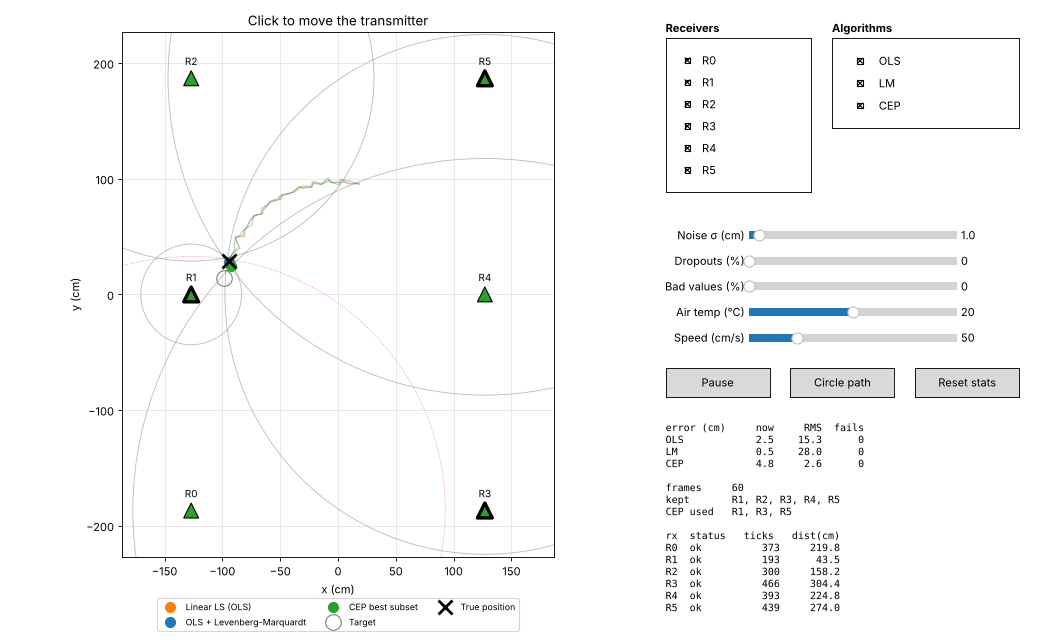
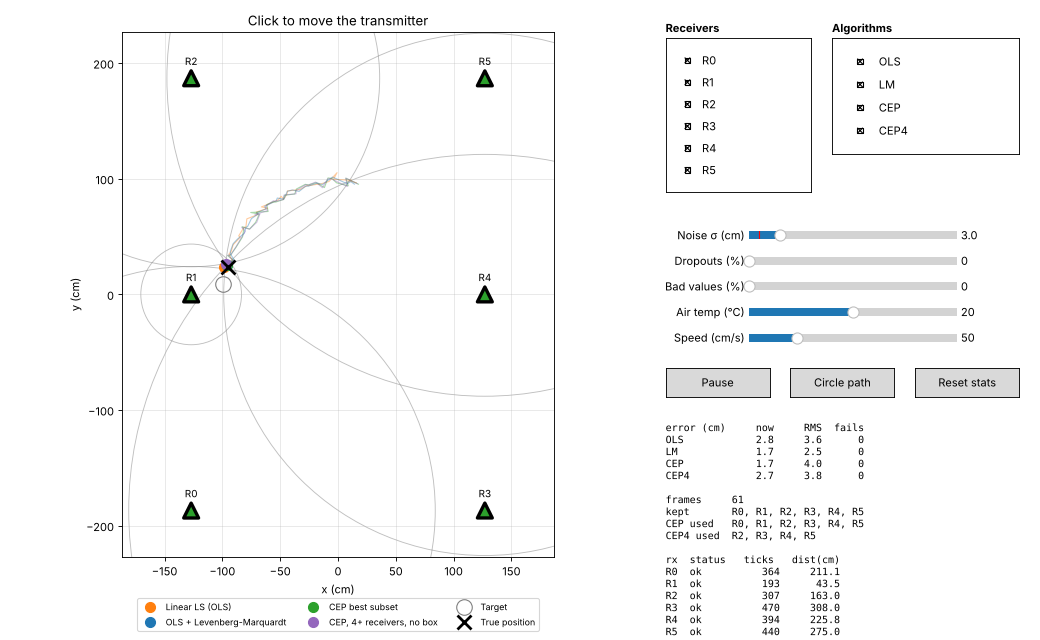
Add CEP4: 4+ receiver subsets, no bounding-box rejection, standard CEP score
A simulator-only CEP variant shown next to the library's for comparison.
Subsets are still solved with the library's OLS + LM. The library code
is unchanged.

Claude-Session: https://claude.ai/code/session_016VGCEF7XuqfShYWX5pyBoB

diff --git a/solvers.py b/solvers.py
@@ -17,7 +17,20 @@ Algorithms shown:
                subsets that exist, so every subset of 3 or more kept
                receivers is tried and the lowest-CEP one wins.
 
-All three see the same receivers: the ones that pass the library's bounds and
+  * ``CEP4`` — simulator-only variant of CEP for comparison.  It differs
+               from the library's CEP in three ways:
+                 - only subsets of 4 or more receivers are tried, so one bad
+                   reading can't hide inside an exact 3-receiver fit;
+                 - fixes outside the receivers' bounding box are kept;
+                 - CEP is the textbook one: covariance = s² (JᵀJ)⁻¹ with
+                   s² = sum of squared residuals / (m − 2).  The library
+                   instead weights each receiver by 1 / (|residual| + 0.1),
+                   which rewards a fit where some residuals are near zero
+                   and lets a bad reading win.
+               Each subset is solved with the library's own OLS + LM.  With
+               fewer than 4 kept receivers it holds its last fix.
+
+All four see the same receivers: the ones that pass the library's bounds and
 jump (differential) filter, run once per frame by ``get_position_full`` —
 exactly as UltraGPS-Control's ``windows/position_window.py`` calls it.
 """
@@ -25,6 +38,7 @@ exactly as UltraGPS-Control's ``windows/position_window.py`` calls it.
 from __future__ import annotations
 
 import os
+from itertools import combinations
 from math import comb
 
 import numpy as np
@@ -34,7 +48,7 @@ from ultragps_position import UltraGPSPositionLib, load_config
 _REPO = os.path.dirname(os.path.abspath(__file__))
 
 DEFAULT_CONFIG = os.path.join(_REPO, "config", "config.toml")
-ALGORITHMS     = ("OLS", "LM", "CEP")
+ALGORITHMS     = ("OLS", "LM", "CEP", "CEP4")
 
 
 def load_calibration(config_path: str) -> tuple[np.ndarray, np.ndarray, np.ndarray]:
@@ -52,9 +66,37 @@ class Solvers:
         # Subsets of size 3..n of n receivers, plus one: every subset is tried
         n = self.lib.receiver_count
         self.max_subsets = 2 ** n - sum(comb(n, k) for k in range(3)) + 1
+        self.cep4_last = None
 
     def reset(self) -> None:
         self.lib.reset_state()
+        self.cep4_last = None
+
+    def _standard_cep(self, distances, subset) -> tuple:
+        d      = np.array(distances, dtype=float)
+        idx    = np.array(subset)
+        pos, r = self.lib._nlls(d, self.lib._ols(d, idx), idx)
+        J      = r.jac
+        s2     = float(np.sum(r.fun ** 2)) / (len(subset) - 2)
+        try:
+            cov = s2 * np.linalg.inv(J.T @ J)
+        except np.linalg.LinAlgError:
+            return pos, float("inf")
+        return pos, 0.59 * (np.sqrt(abs(cov[0, 0])) + np.sqrt(abs(cov[1, 1])))
+
+    def cep4(self, distances, sane) -> tuple:
+        """Lowest-CEP subset of 4+ kept receivers, no bounding-box check.
+        Returns ``(position, subset)``; subset is ``[]`` when holding."""
+        best_pos, best_cep, best_idx = None, float("inf"), []
+        for k in range(4, len(sane) + 1):
+            for subset in combinations(sane, k):
+                pos, cep = self._standard_cep(distances, list(subset))
+                if cep < best_cep:
+                    best_pos, best_cep, best_idx = pos, cep, list(subset)
+        if best_pos is None:
+            return self.cep4_last, []
+        self.cep4_last = np.asarray(best_pos, dtype=float).copy()
+        return self.cep4_last, best_idx
 
     def solve(self, ticks: list[int]) -> dict:
         """Return ``{"positions": {name: xy or None}, "success": {name: bool},
@@ -66,13 +108,18 @@ class Solvers:
         if len(sane) >= 3:
             ols = self.lib._ols(np.array(r["distances"], dtype=float), np.array(sane))
 
+        cep4_pos, cep4_subset = self.cep4(r["distances"], list(sane))
+
         return {
-            "positions":  {"OLS": ols, "LM": r["lm_position"], "CEP": r["cep_position"]},
-            "success":    {"OLS": ols is not None, "LM": r["lm_success"], "CEP": r["cep_success"]},
+            "positions":  {"OLS": ols, "LM": r["lm_position"], "CEP": r["cep_position"],
+                           "CEP4": cep4_pos},
+            "success":    {"OLS": ols is not None, "LM": r["lm_success"], "CEP": r["cep_success"],
+                           "CEP4": bool(cep4_subset)},
             "distances":  list(r["distances"]),
             "sane":       list(sane),
             # On a failed frame the library returns the last good fix and the
             # subset that produced it; report no subset so it is not mistaken
             # for one used this frame.
-            "cep_subset": list(r["best_indices"] or []) if r["cep_success"] else [],
+            "cep_subset":  list(r["best_indices"] or []) if r["cep_success"] else [],
+            "cep4_subset": cep4_subset,
         }

diff --git a/app.py b/app.py
@@ -22,8 +22,9 @@ from simulation import Simulation
 from solvers import ALGORITHMS, DEFAULT_CONFIG
 
 DT          = 0.1   # s per frame — the base station's default 10 Hz
-COLORS      = {"OLS": "tab:orange", "LM": "tab:blue", "CEP": "tab:green"}
-LABELS      = {"OLS": "Linear LS (OLS)", "LM": "OLS + Levenberg-Marquardt", "CEP": "CEP best subset"}
+COLORS      = {"OLS": "tab:orange", "LM": "tab:blue", "CEP": "tab:green", "CEP4": "tab:purple"}
+LABELS      = {"OLS": "Linear LS (OLS)", "LM": "OLS + Levenberg-Marquardt", "CEP": "CEP best subset",
+               "CEP4": "CEP, 4+ receivers, no box"}
 STATUS_FILL = {"ok": "tab:green", "off": "lightgray", "dropout": "tab:orange",
                "range": "tab:orange", "spike": "tab:red"}
 PATH_RADIUS = 100.0
@@ -83,7 +84,7 @@ class App:
         self.tower_cb.on_clicked(self._on_tower)
 
         f.text(0.80, 0.95, "Algorithms", weight="bold")
-        self.algo_cb = CheckButtons(f.add_axes([0.80, 0.80, 0.18, 0.14]),
+        self.algo_cb = CheckButtons(f.add_axes([0.80, 0.76, 0.18, 0.18]),
                                     list(ALGORITHMS), [True] * len(ALGORITHMS))
         self.algo_cb.on_clicked(self._on_algo)
 
@@ -183,6 +184,7 @@ class App:
             f"frames     {self.sim.frames}",
             f"kept       {', '.join(f'R{i}' for i in f['sane']) or 'none'}",
             f"CEP used   {', '.join(f'R{i}' for i in f['cep_subset']) or 'none, holding last fix'}",
+            f"CEP4 used  {', '.join(f'R{i}' for i in f['cep4_subset']) or 'none, holding last fix'}",
             "",
             "rx  status   ticks   dist(cm)",
         ]

diff --git a/test_simulator.py b/test_simulator.py
@@ -32,7 +32,7 @@ class SimulatorTest(unittest.TestCase):
         sim = Simulation(seed=0)
         sim.faults = Faults(noise_cm=0.0)
         run(sim, [30, 50])
-        for a in ("OLS", "LM", "CEP"):
+        for a in ("OLS", "LM", "CEP", "CEP4"):
             self.assertLess(sim.stats(a)[0], 2.0, a)
 
     def test_receiver_off_reports_zero_ticks(self):
@@ -67,6 +67,22 @@ class SimulatorTest(unittest.TestCase):
         self.assertFalse(held["success"]["CEP"])
         self.assertEqual(held["cep_subset"], [])
         np.testing.assert_array_equal(held["positions"]["CEP"], good["positions"]["CEP"])
+
+    def test_cep4_uses_four_or_more_and_keeps_fixes_outside_the_box(self):
+        sim = Simulation(seed=0)
+        frame = run(sim, [140, 0])          # x beyond the receivers at ±127
+        self.assertGreaterEqual(len(frame["cep4_subset"]), 4)
+        self.assertLess(sim.stats("CEP4")[0], 5.0)
+        self.assertFalse(frame["success"]["CEP"])   # library CEP holds instead
+
+    def test_cep4_holds_with_fewer_than_four_receivers(self):
+        sim = Simulation(seed=0)
+        good = run(sim, [30, 50], frames=5)
+        for i in (1, 2, 3):
+            sim.enabled[i] = False
+        held = sim.step()
+        self.assertEqual(held["cep4_subset"], [])
+        np.testing.assert_array_equal(held["positions"]["CEP4"], good["positions"]["CEP4"])
 
 
 if __name__ == "__main__":

diff --git a/README.md b/README.md
@@ -60,7 +60,7 @@ solid if the library kept that reading, dotted red if its filter dropped it.
 
 ## Algorithms shown
 
-All three come from `ultragps_position` and see the same filtered receivers,
+OLS, LM and CEP come from `ultragps_position`; all four see the same filtered receivers,
 because the simulator calls `get_position_full()` exactly as UltraGPS-Control's
 `windows/position_window.py` does.
 
@@ -72,6 +72,19 @@ because the simulator calls `get_position_full()` exactly as UltraGPS-Control's
   falling back to the last good fix when out of bounds. The library's own
   default stops after 15 subsets; the simulator raises that cap through the
   library's `max_subsets` argument, so the library code itself is unchanged.
+- **CEP4** — a simulator-only variant for comparison; it is not in the
+  library. Each subset is still solved with the library's OLS + LM, but:
+  - only subsets of **4 or more** receivers are tried, so a bad reading can't
+    hide inside a 3-receiver fit (three ranges almost always fit a 2D point);
+  - fixes **outside the receivers' bounding box are kept** instead of being
+    replaced by the last good fix;
+  - the score is the textbook CEP, `0.59·(σx + σy)` from
+    `s²·(JᵀJ)⁻¹` with `s² = Σresidual² / (m − 2)`. The library weights each
+    receiver by `1 / (|residual| + 0.1)`, which rewards fits where some
+    residuals are near zero.
+
+  With fewer than 4 kept receivers it holds its last fix, and with exactly 4
+  kept it has no subset to choose, so a bad reading among those 4 gets through.
 
 ## Sensor model
 
